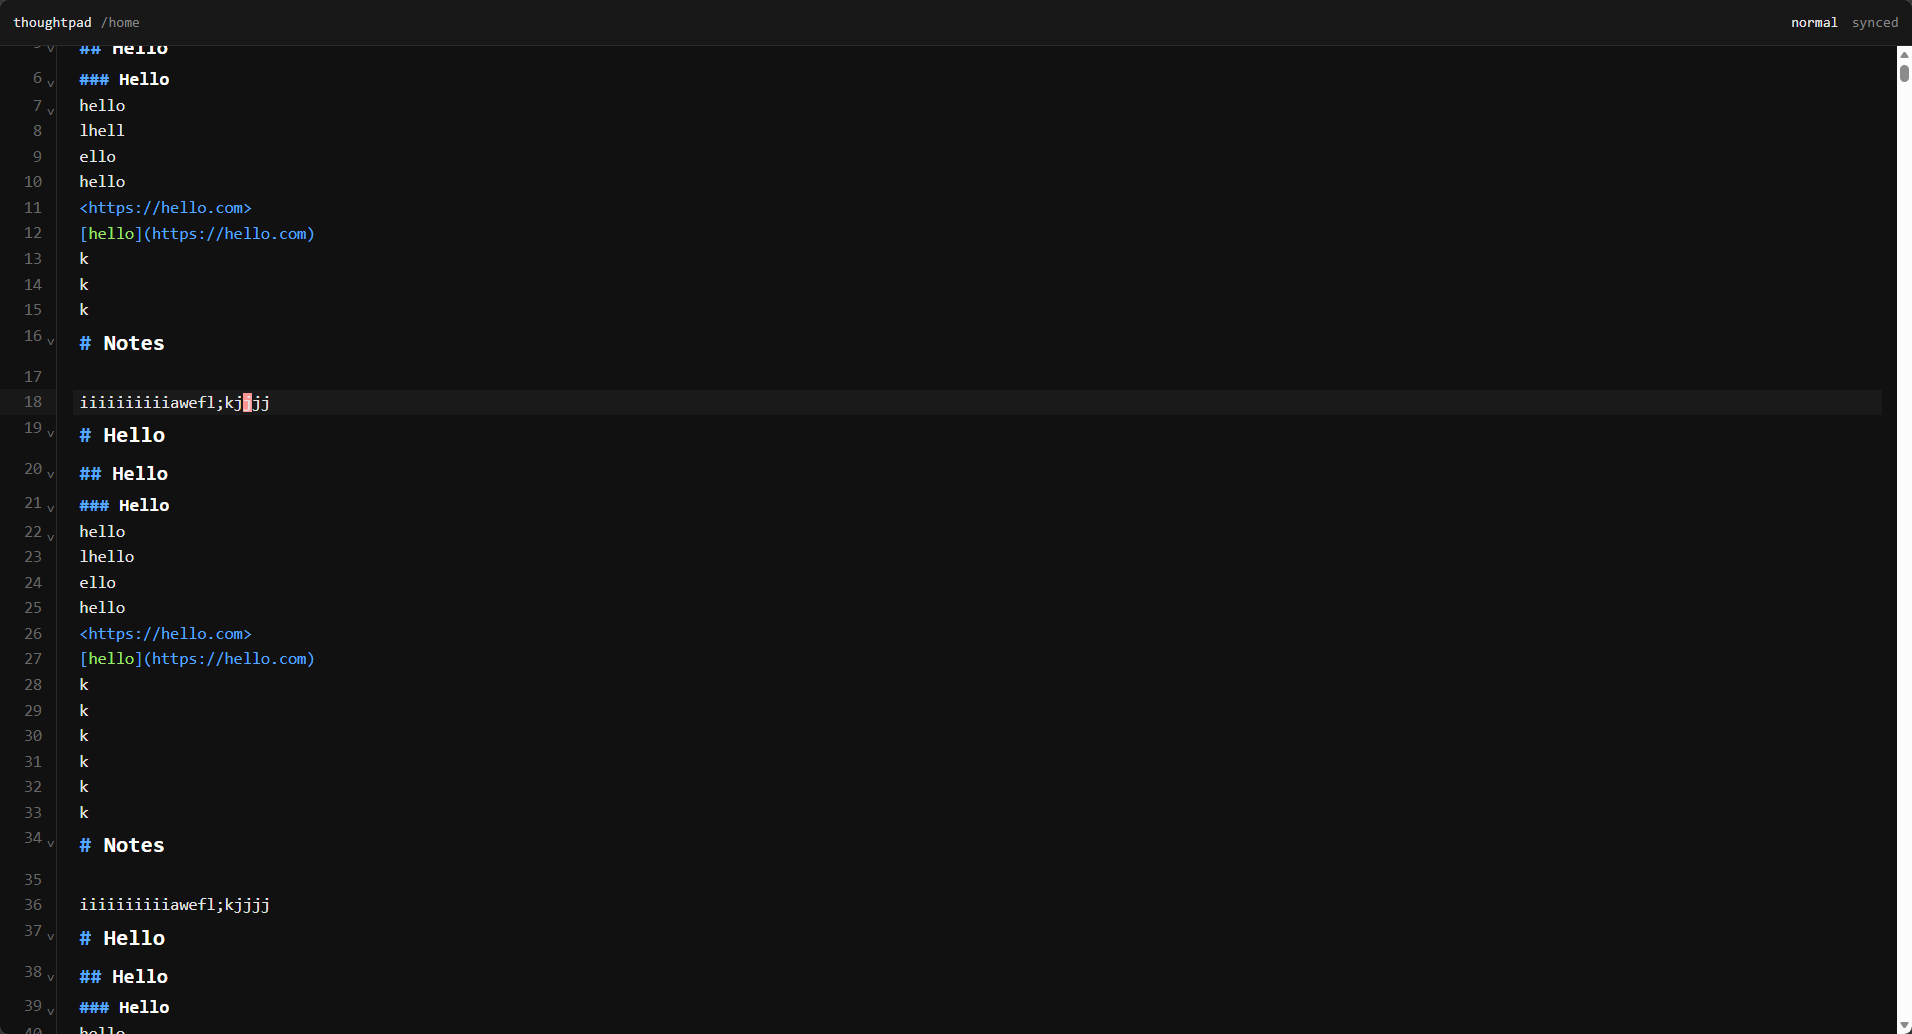
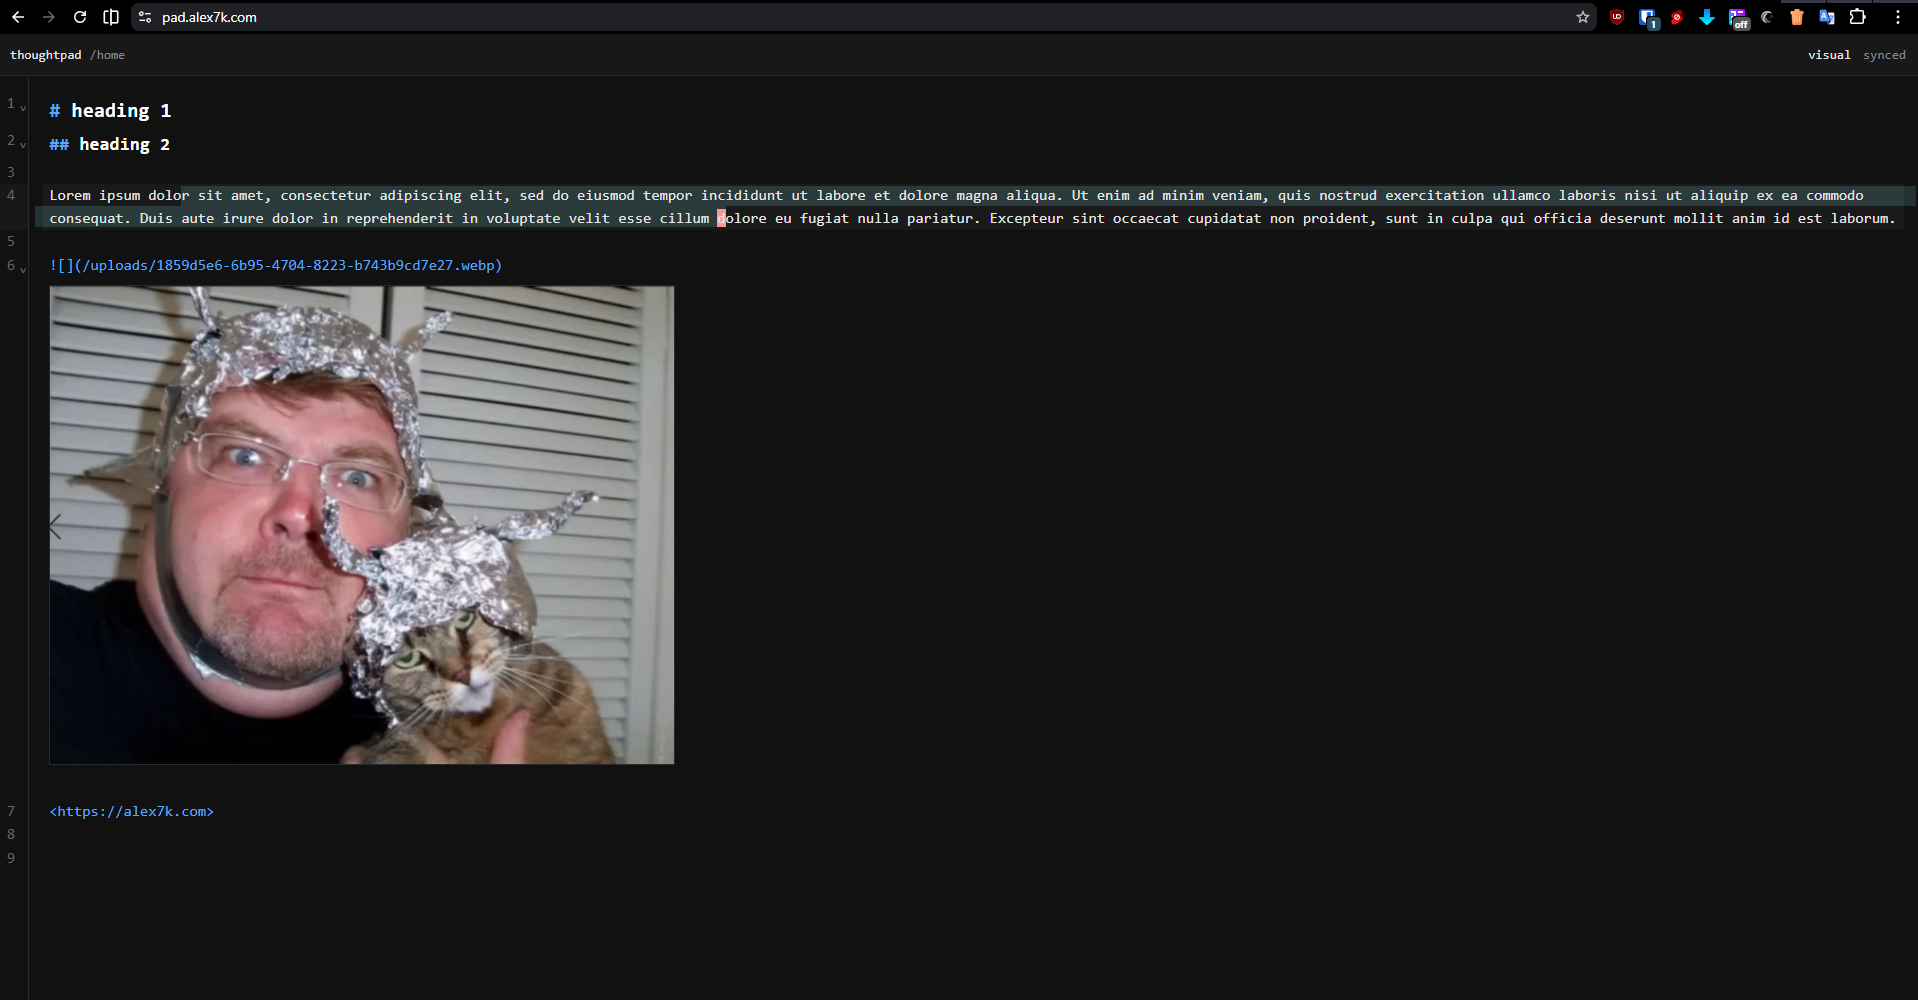
add more screenshots

diff --git a/README.md b/README.md
@@ -1,8 +1,11 @@
 # thoughtpad
 
-![Screenshot of the web interface](img/screenshot.png)
-
 Minimal self-hosted synced text pad.
+
+![Screenshot of the web interface](img/screenshot.png)
+![Screenshot of the file selector](img/file_selector.png)
+![Screenshot of the file selector](img/collaboration.png)
+![Screenshot of the file selector](img/login.png)
 
 Thoughtpad is a single-user Markdown-first note editor. The URL is the note name, notes are stored as plain files, images are stored on disk, and live editing is synced through Yjs over a Bun WebSocket server.
 